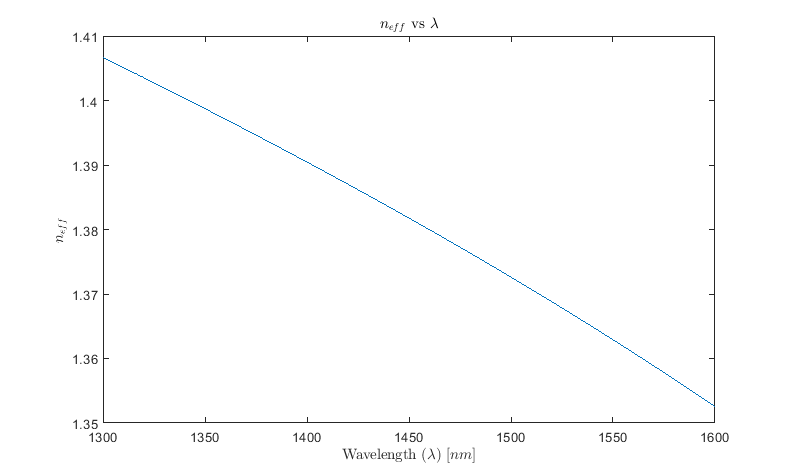
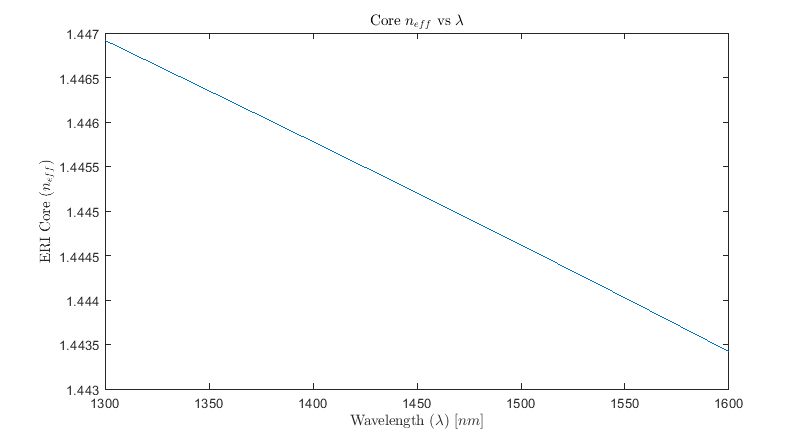
fix: square Sellmeier Coeffs

diff --git a/code/main.m b/code/main.m
@@ -68,8 +68,8 @@ for ii = i
     x = coremode_n_eff(ii*power(10,-3),r_1);
     temo(ii-1299) = x;
 end
-plot(i,temo); title('$n_{eff}$ vs $\lambda$',"Interpreter","latex");
-ylabel('$n_{eff}$','Interpreter',"latex"); xlabel('Wavelength ($\lambda$) [$nm$]','Interpreter',"latex");
+plot(i,temo); title('Core $n_{eff}$ vs $\lambda$',"Interpreter","latex");
+ylabel('ERI Core ($n_{eff}$)','Interpreter',"latex"); xlabel('Wavelength ($\lambda$) [$nm$]','Interpreter',"latex");
 
 % PLOT CLADDING MODES
 % lambda_test = 1550E-3;

diff --git a/code/helper-functions/Sellmeier.m b/code/helper-functions/Sellmeier.m
@@ -3,5 +3,7 @@ function n = Sellmeier(lambda, coefficients)
 %doped fibres
     coeff_cell = num2cell(coefficients);
     [B_1, B_2, B_3, C_1, C_2, C_3] = coeff_cell{:};
-    n = (1 + ((B_1*lambda^2)/(lambda^2 - C_1)) + ((B_2*lambda^2)/(lambda^2 - C_2)) + ((B_3*lambda^2)/(lambda^2 - C_3)))^(1/2);
+    n = sqrt((1 + ((B_1*lambda^2)/(lambda^2 - C_1^2)) + ...
+        ((B_2*lambda^2)/(lambda^2 - C_2^2)) + ...
+        ((B_3*lambda^2)/(lambda^2 - C_3^2))));
 end
